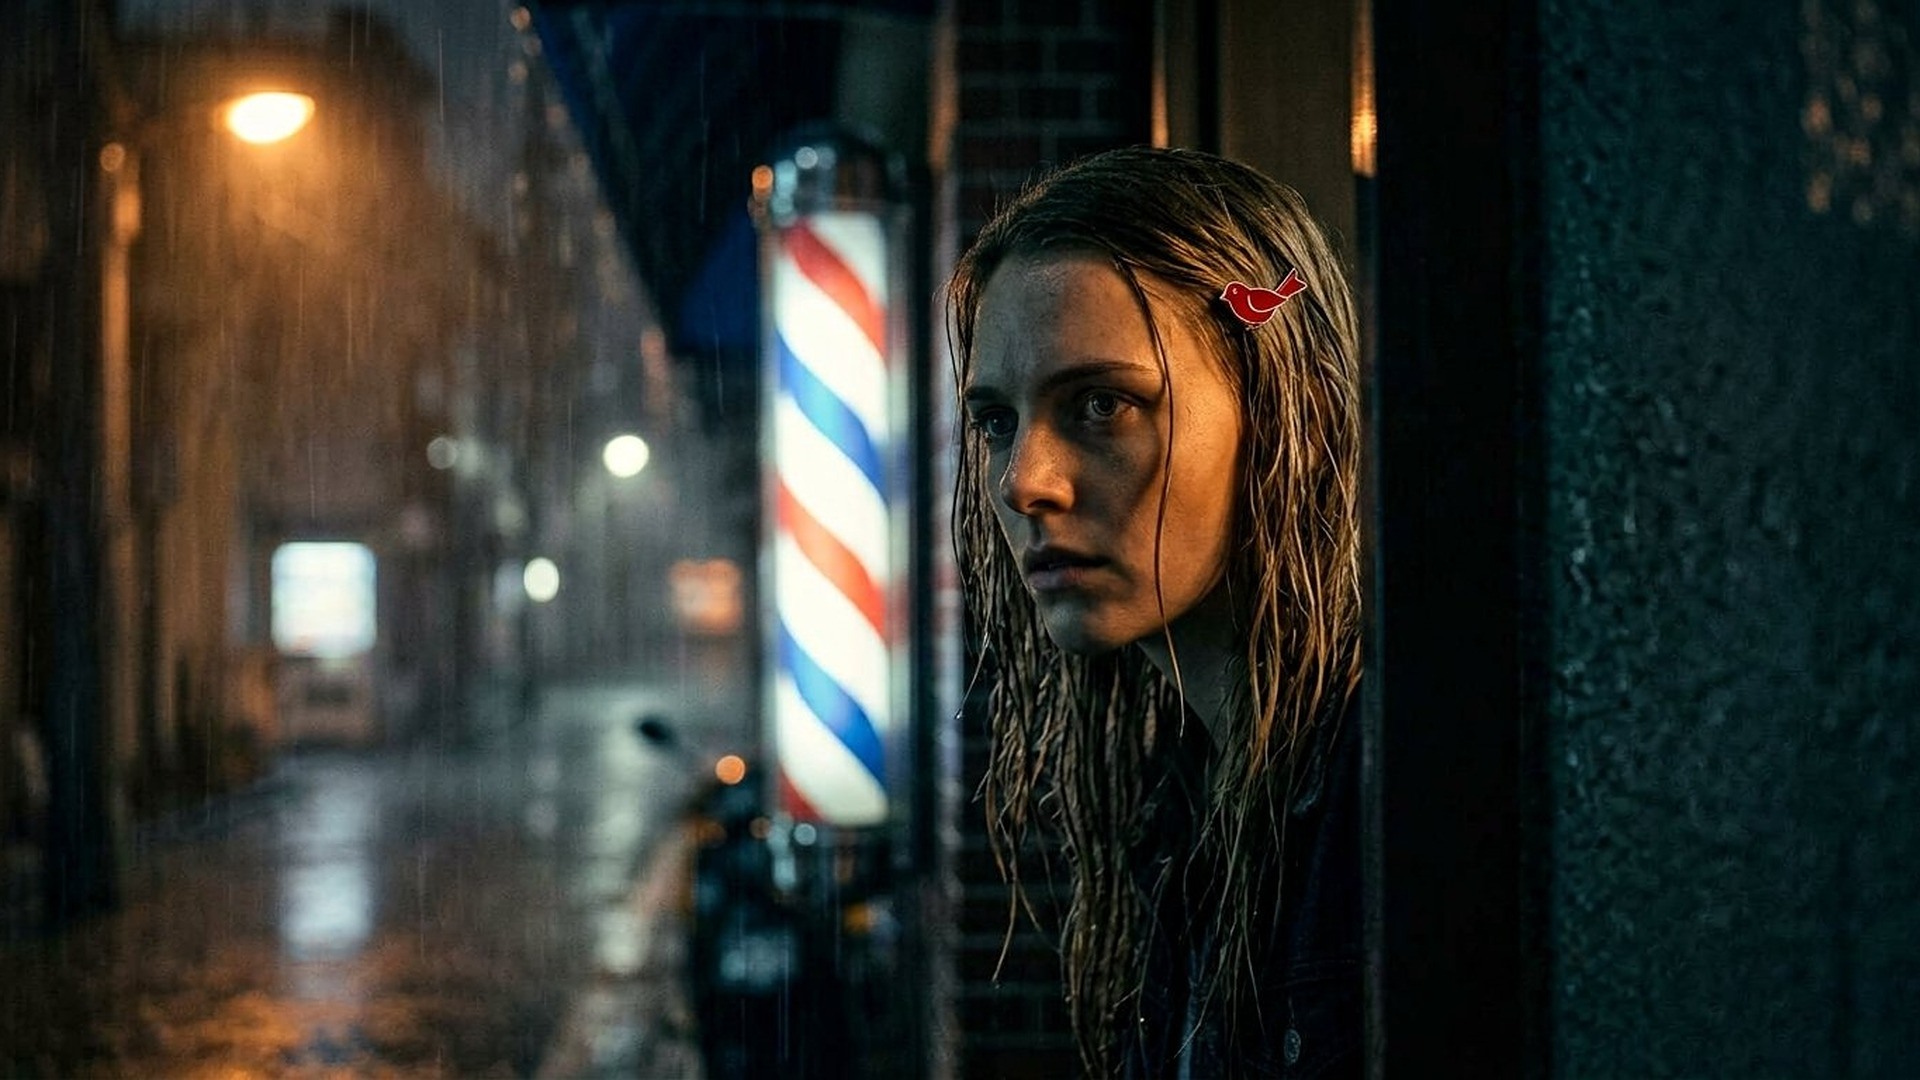
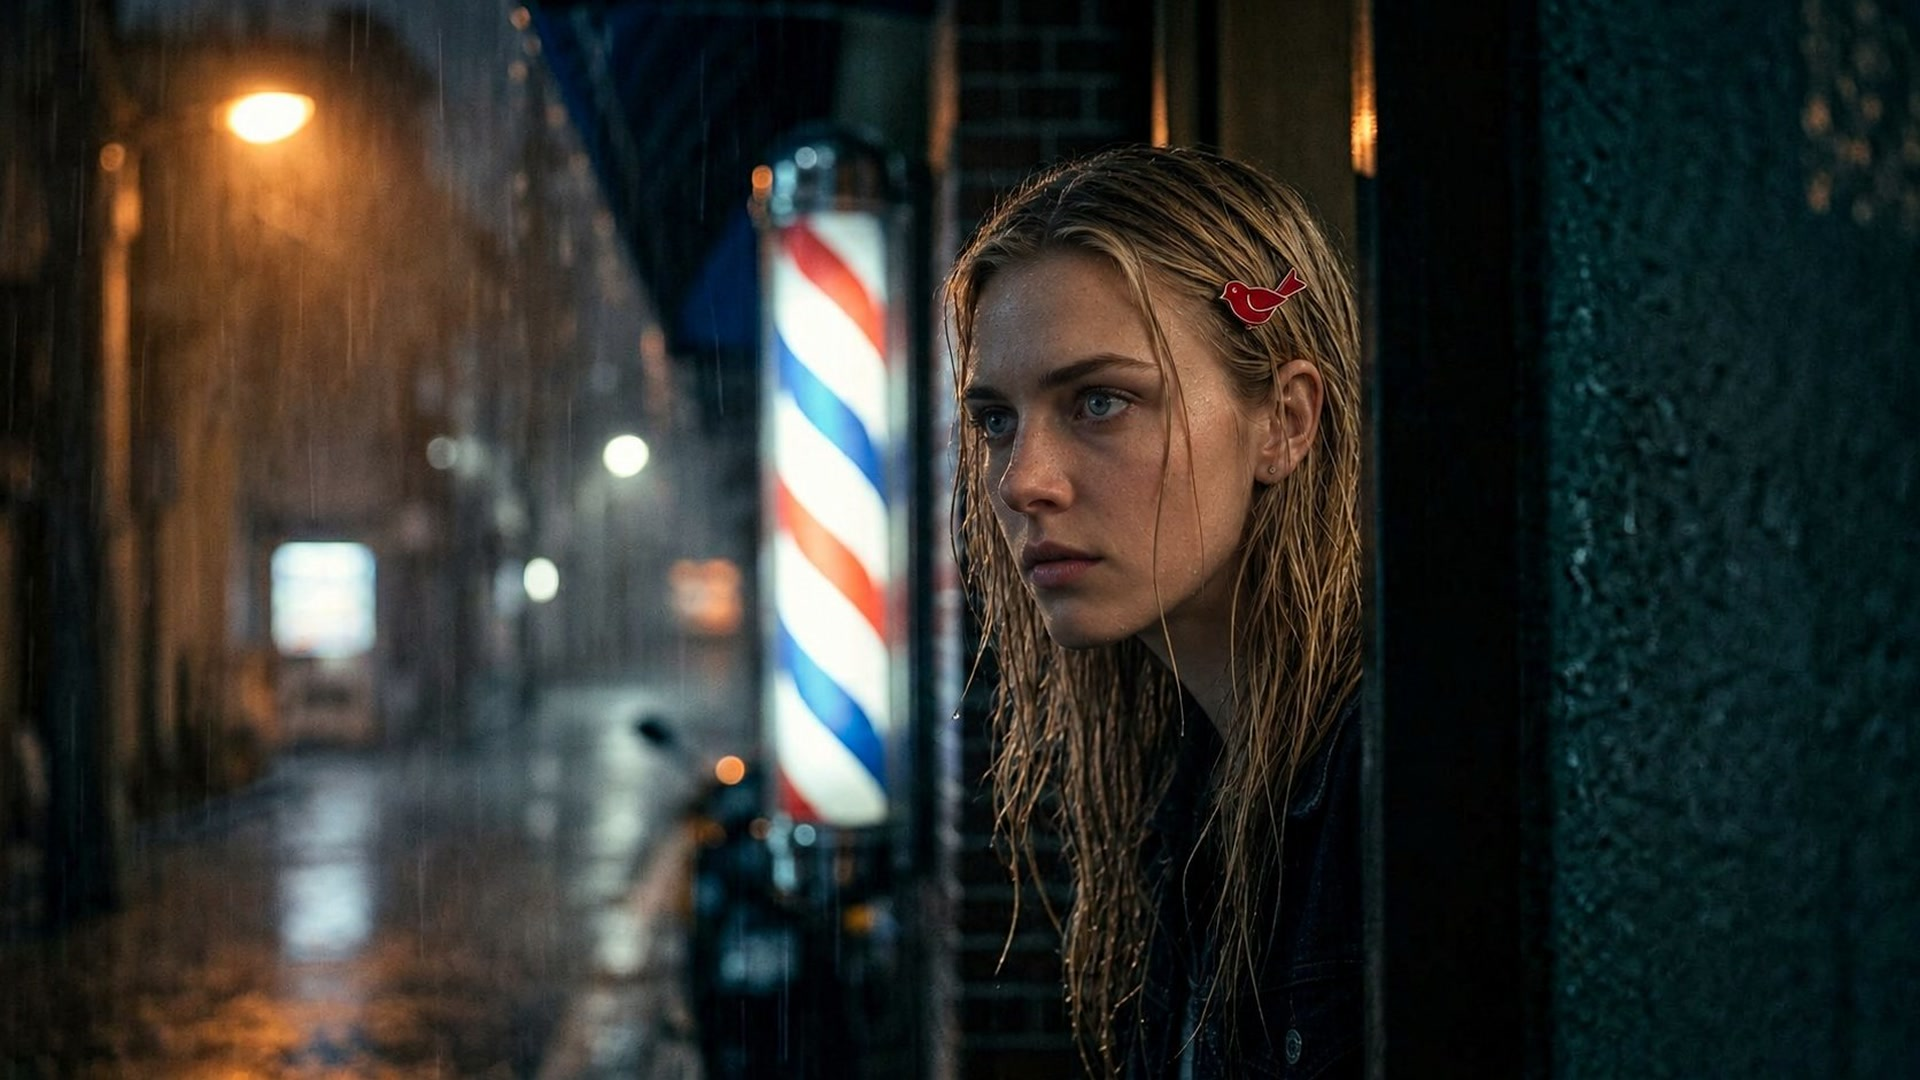
Scene 1: Mara's v2 face in 04, 330 and 14 goes into the film
The director's retakes from s1_retakes/, installed byte for byte with
tools/install-film-picture.mjs (14 at its full 2730x1536); the pictures they
replace are archived (04--v5, 330--v1, 14--v4).

Claude-Session: https://claude.ai/code/session_012ydbYCSE5scPimQfDa9uE1

Changed region(s): [[0.4688, 0.1528, 0.7188, 0.9778]]

diff --git a/FILM.md b/FILM.md
@@ -38,6 +38,10 @@ Mara (denim jacket, the red clip, the gold watch, the brown bag) and the same Sa
 * ~~**328-the-scrap**~~ done 17 October: the director's second, larger retake (1672×941), "just listen." underlined
   twice and the watch on its thin brown strap as the props sheet has it (the first retake, 1020×572, had a gold
   bracelet; it is `archive/s1/328-the-scrap--v2.jpg`, the take before it `--v1`). The hands read a little older than 24.
+* **Mara's v2 face (17 October):** `04-mara-phone`, `330-the-red-clip` and `14-she-kneels` are the director's retakes
+  against the v2 sheet (`s1_new/style-sheets/mara-voss.jpg`, `refs_v2/`), installed from `s1_retakes/` byte for byte
+  (14 at its full 2730×1536). Earlier takes: `archive/s1/04-mara-phone--v5.jpg`, `330-the-red-clip--v1.jpg`,
+  `14-she-kneels--v4.jpg`. Still to redo for her hair: `03-mara-walks`, `329-the-lane-the-watch`.
 * **14**: a new lip-sync clip from the new still.
 
 
